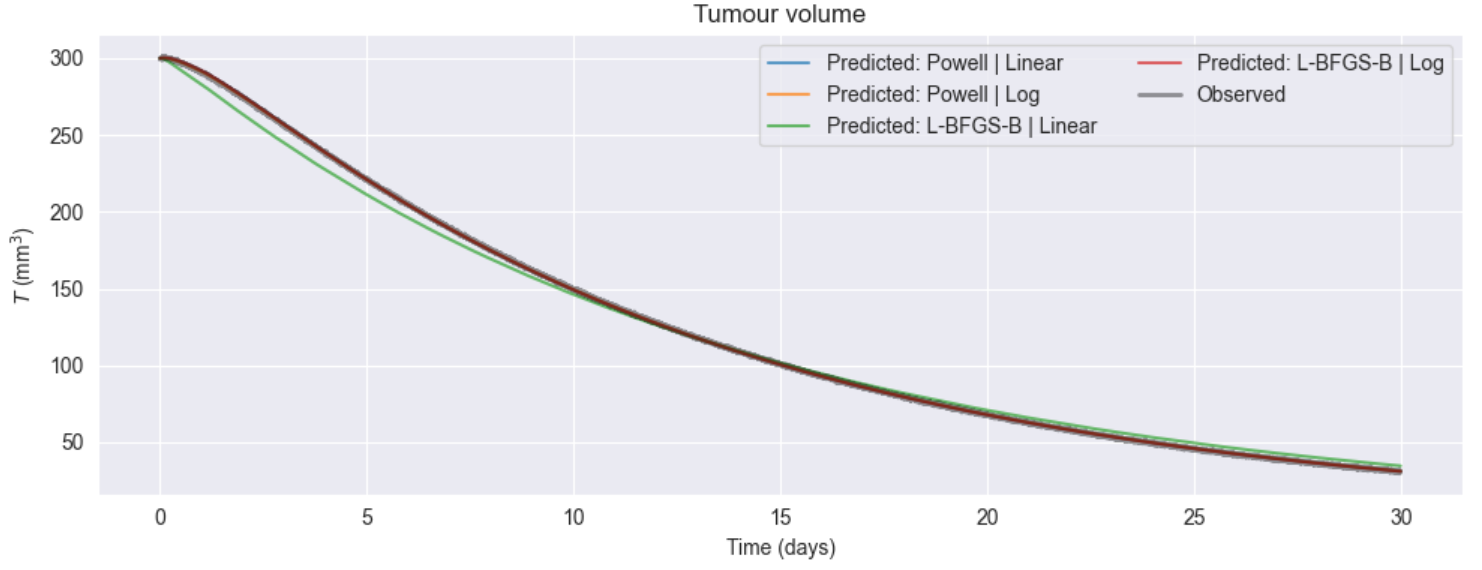
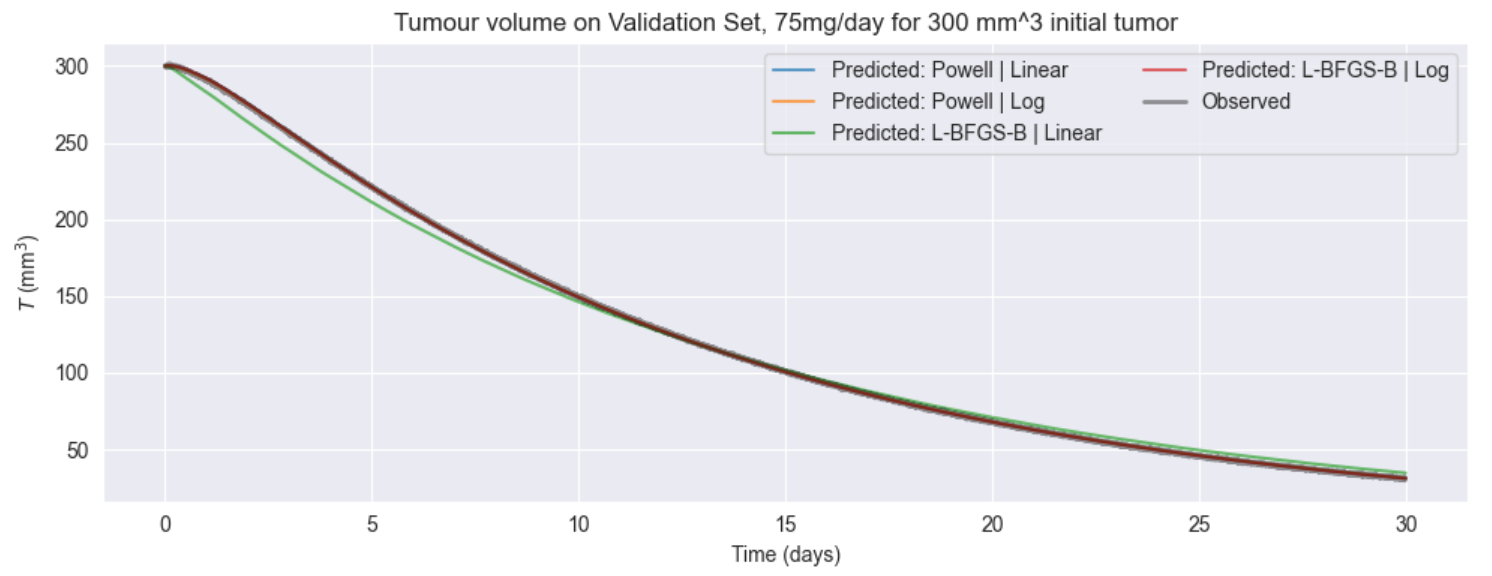
Commit_1

diff --git a/ReadMe.md b/ReadMe.md
@@ -13,25 +13,24 @@ A central objective is to distinguish parameter recovery from predictive perform
 
 # Key Findings
 
-The model exhibits nonlinear treatment-response thresholds: changes in absorption, clearance, tumor growth, inhibition strength, and (EC_{50}) can shift the system between tumor shrinkage and continued growth.
+- The model exhibits nonlinear treatment-response thresholds: changes in absorption, clearance, tumor growth, inhibition strength and other parameters can shift the system between tumor shrinkage and continued growth. Under repeated dosing, the tumor can reach a **stable positive burden rather than being eradicated**, with treatment frequency and dose distribution strongly affecting the trajectory even when the total administered drug is comparable. See figure below.
 
-Dose and frequency matter independently of total drug exposure: different dosing schedules can produce substantially different tumor trajectories, with long intervals allowing regrowth despite comparable cumulative dosing.
-
-Increasing dose eventually encounters pharmacodynamic saturation, while the current model predicts relapse after treatment cessation rather than permanent eradication.
-
-Parameter-estimation experiments show that parameter recovery and predictive accuracy need not coincide; initial results give relative parameter errors of (52.4%-56.3%) for Powell versus (40.4%-44.0%) for L-BFGS-B, while the current Powell log-scaled configuration achieves a validation MSE of 0.5978.
-
-**Volatility and variance forecast**
 <p align="center">
-  <img src="figures/vol_var_forecast_visualize.png" alt="Volatility and Variance Forecast" width="90%">
+  <img src="figures/Tumor_size_stat.png" alt="Tumor_Size_Stat_1" width="90%">
 </p>
 
-**VaR and ES forecasts**
+- Dose and frequency matter independently of total drug exposure. Different dosing schedules can produce substantially different tumor trajectories, with long intervals allowing regrowth despite comparable cumulative dosing. Increasing dose eventually encounters pharmacodynamic saturation, while the current model predicts relapse after treatment cessation rather than permanent eradication.
+
 <p align="center">
-  <img src="figures/VaR_ES_0.05.png" alt="VaR-ES Forecast" width="70%">
+  <img src="figures/tumor_diffdose.png" alt="Tumor_Size_Stat_2" width="90%">
 </p>
 
-**Volatility forecast parameter uncertainty**
+- Parameter-estimation experiments show that parameter recovery and predictive accuracy need not coincide. Initial results give relative parameter errors of (52.4%-56.3%) for Powell versus (40.4%-44.0%) for L-BFGS-B, while the current Powell log-scaled configuration achieves lowest validation MSE of 0.5978.
+
 <p align="center">
-  <img src="figures/Volatility_Forecast_Uncertainty.png" alt="Volatility forecast parameter uncertainty" width="80%">
+  <img src="figures/param_recovery.png" alt="param_recovery" width="90%">
+</p>
+
+<p align="center">
+  <img src="figures/val_set_MSE.png" alt="val_MSE" width="90%">
 </p>
